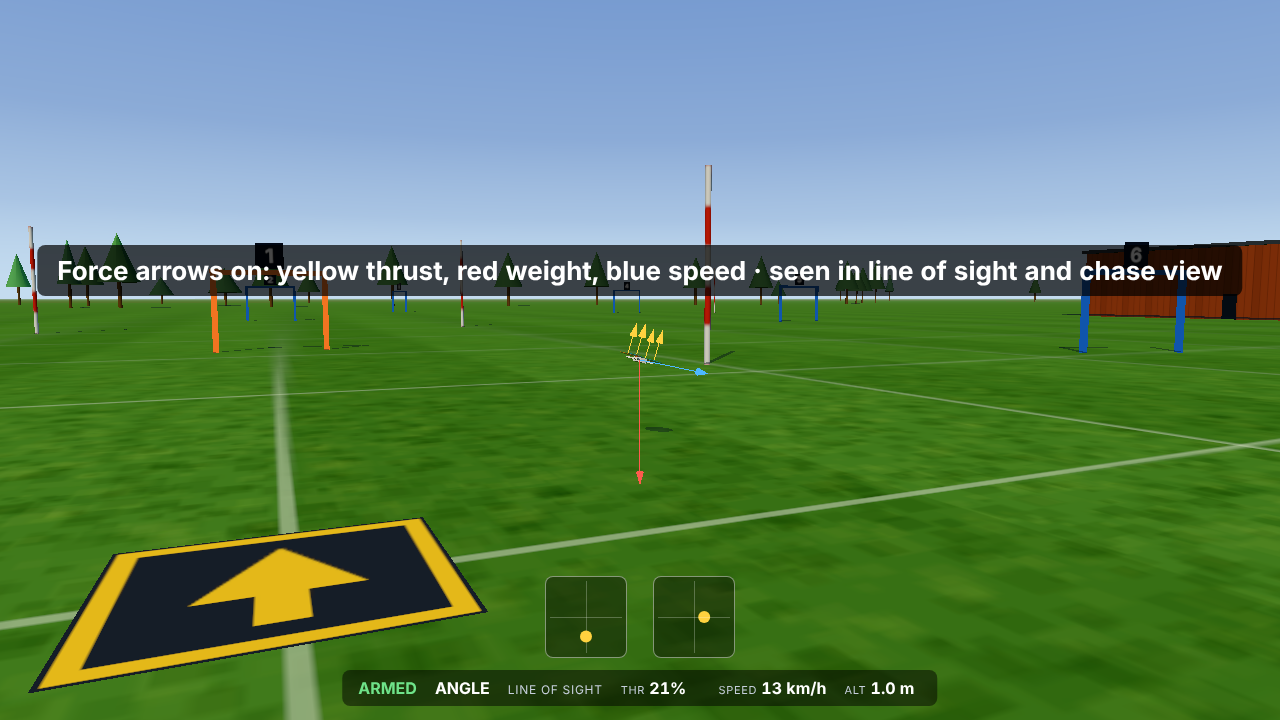
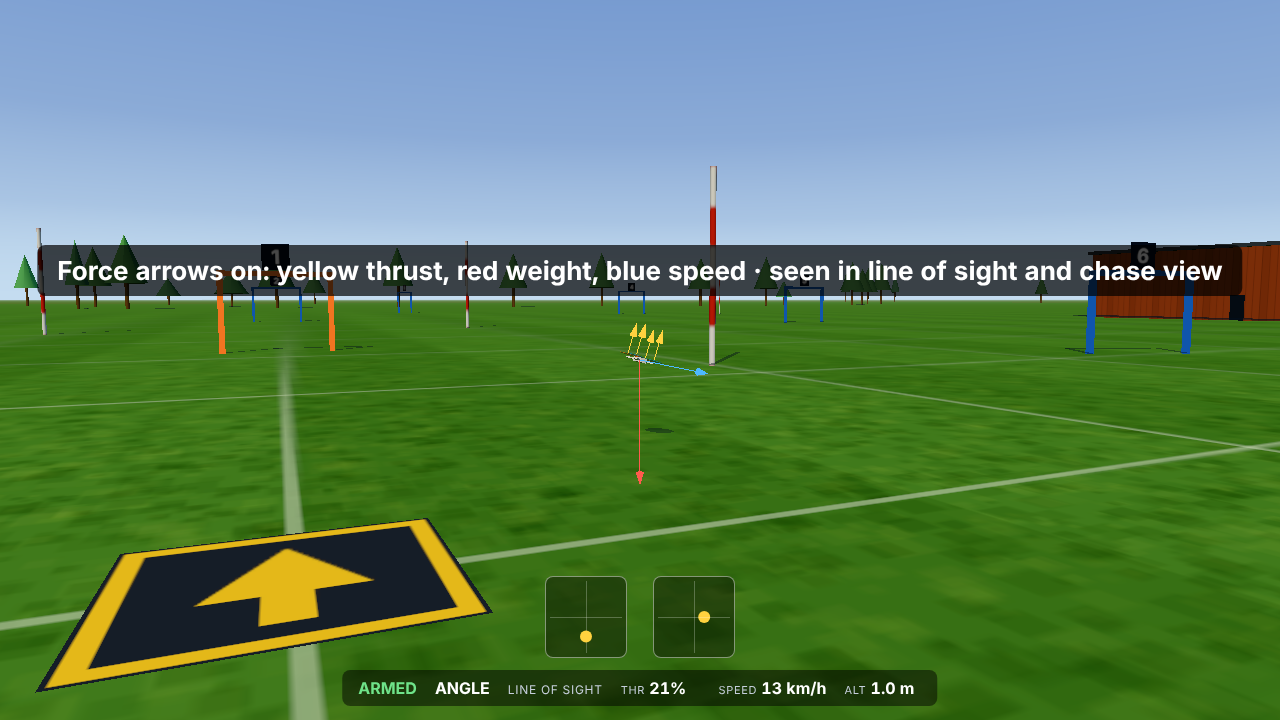
M10: coaching reads the last flying sample before a crash (found in Chrome: the stopped quad was read as 0 km/h); assumptions and notes for the next leg

diff --git a/src/coach.js b/src/coach.js
@@ -10,7 +10,7 @@ const PUSHED = 0.15;           // stick further out than this counts as "held" (
 
 export function createRecorder() { return { samples: [], last: -1, peak: null }; }
 const _up = [0, 0, 0];
-// sm: { t, pos, vel, quat, onGround }, sticks: { roll, pitch, yaw, throttle }, step: number of the lesson step being flown.
+// sm: { t, pos, vel, quat, onGround, crashed }, sticks: { roll, pitch, yaw, throttle }, step: number of the lesson step being flown.
 // force: take the sample whatever the time since the last one (the last frame of a run).
 export function record(rec, sm, sticks, step, force = false) {
   const speed = Math.hypot(sm.vel[0], sm.vel[1], sm.vel[2]);
@@ -28,7 +28,7 @@ export function record(rec, sm, sticks, step, force = false) {
   rec.last = sm.t;
   rotate(sm.quat, [0, 1, 0], _up);
   rec.samples.push({ t: sm.t, pos: [sm.pos[0], sm.pos[1], sm.pos[2]], vel: [sm.vel[0], sm.vel[1], sm.vel[2]], head: headingDeg(sm.quat),
-    tilt: Math.acos(Math.max(-1, Math.min(1, _up[1]))) * 180 / Math.PI, onGround: sm.onGround, step,
+    tilt: Math.acos(Math.max(-1, Math.min(1, _up[1]))) * 180 / Math.PI, onGround: sm.onGround, crashed: !!sm.crashed, step,
     roll: sticks.roll, pitch: sticks.pitch, yaw: sticks.yaw, throttle: sticks.throttle });
   while (rec.samples.length && sm.t - rec.samples[0].t > KEEP) rec.samples.shift();
   return rec;
@@ -80,7 +80,8 @@ export function coachLine(a, r, rec, ctx = {}) {
   const S = rec.samples, end = S[S.length - 1];
   if (!end) return r.reason;
   const view = ctx.view || 'fpv', hover = ctx.hover ?? 0.2;
-  const air = S.filter((p) => !p.onGround), lastAir = air[air.length - 1] || end;
+  const air = S.filter((p) => !p.onGround && !p.crashed), lastAir = air[air.length - 1] || end;
+  // (a crashed quad has stopped: its last flying sample is the one before the crash)
   const recent = (sec, from = end) => S.filter((p) => from.t - p.t <= sec && p.t <= from.t);
   const mean = (list, k) => (list.length ? list.reduce((n, p) => n + p[k], 0) / list.length : 0);
   const step = a.lesson.steps[Math.min(a.step, a.lesson.steps.length - 1)];

diff --git a/src/main.js b/src/main.js
@@ -118,7 +118,7 @@ function lessonFrame(dt) {
   LS.attemptUpdate(attempt, { t: s.time, pos: s.pos, vel: s.vel, quat: s.quat, armed: sim.armed, crashed: s.crashed, onGround: s.onGround, mode: sim.mode, view: view.mode });
   if (attempt.state === 'running' && card) card = null;
   // Coaching: keep the last seconds of the player's own run (position, speed, sticks), to say why it failed.
-  if (attempt.state !== 'ready' && !watching) record((attempt.rec ||= createRecorder()), { t: s.time, pos: s.pos, vel: s.vel, quat: s.quat, onGround: s.onGround }, sticks, attempt.step, attempt.state !== 'running');
+  if (attempt.state !== 'ready' && !watching) record((attempt.rec ||= createRecorder()), { t: s.time, pos: s.pos, vel: s.vel, quat: s.quat, onGround: s.onGround, crashed: s.crashed }, sticks, attempt.step, attempt.state !== 'running');
   if (attempt.action) {
     if (attempt.action.type === 'spin') { // a gust turns the quad to a heading the pilot did not choose
       const h = (-attempt.action.yawDeg * DEG) / 2, [x, y, z, w] = s.quat, sy = Math.sin(h), cy = Math.cos(h);

diff --git a/src/style.css b/src/style.css
@@ -123,3 +123,5 @@ button.lesson .next { color: #ffd23f; font-weight: 600; }
 #uptilt-row input { flex: 1; min-width: 80px; }
 #uptilt-row output { color: #ffd23f; font-variant-numeric: tabular-nums; font-size: 13px; }
 #btn-uptilt-auto[hidden] { display: none; }
+#menu section > #uptilt-row { flex-wrap: wrap; }
+#uptilt-row span { white-space: nowrap; }

diff --git a/PROGRESS.md b/PROGRESS.md
@@ -95,6 +95,12 @@ Live link: https://mickethegeek.github.io/fpv-sim/ (not checkable from the cloud
 - Weak spots a human should judge (nobody has looked at the demos except through screenshots): in the nose-toward-you demos the quad is small and seen edge-on, so which way the nose points is hard to read; the per-motor arrow differences during a tilt last a few hundredths of a second and are easy to miss even in slow motion; the stop-early card says stopping takes more room at speed but the demo shows one speed only.
 - The lap timer and gate count in the HUD now show only on the gate course.
 
+- Helpers (M10): force arrows are drawn in line-of-sight and chase view only. In FPV the camera sits on the quad, so there is nothing to draw them on; switching them on in FPV says so on screen. Key F, or the button in Settings; no controller button (the pause menu reaches Settings). Saved in the browser (`fpvsim.view.v1`).
+- Camera tilt: 12° in Learn (middle of the cited 10 to 15° for beginners), 25° in Gates and Free fly, until the player moves the new Camera tilt slider in Settings (0 to 50°); from then on their value is used everywhere. "Camera tilt back to default" undoes it. PLAN said "starts at a beginner value and the setting stays the player's": there was no tilt setting before, so one was added. Change `LEARN_UPTILT` in `src/main.js`.
+- Coaching is one line on the result card of a failed lesson run (the card stays 14 s instead of 8). "streak back to 0" moved from the card's text to its title. A good run shows its numbers as before. Coaching is not a toggle: PLAN lists it under the helpers that are toggles, but it only ever appears on a card that was already there. If Mike wants it switchable, add a button next to Force arrows.
+- Coaching thresholds (a stick counts as held beyond 15 % for 0.3 s, and so on) and the advice wording are judgements, marked UNSOURCED in `docs/theory.md`. The numbers in each line are measured from the run.
+- No coaching in Gates or Free fly (nothing "fails" there except a crash; PLAN asks for it after a failed Try).
+
 ## Notes for the next leg
 - Menus: `src/menu.js` (`navUpdate` pure and unit-tested; `Menu` class: screens are `<section data-screen>` in `index.html`, buttons with `data-go="screen|back"` or `data-act="..."`, `data-first` marks where the pointer starts; anything focusable on a screen is reachable with the D-pad, sliders and selects change with left / right). `main.js`: `menu`, `start(mode, id)`, `closeMenu`, `appMode` (`learn` / `gates` / `free`); the sim, lessons, crash timer and lap timer stand still while `menu.isOpen`. Test hook: `__sim.menu.open('pause')`, `.push('settings')`, `.close()`, `__sim.start('learn', 'wind')`, `snapshot().menu` and `.app`. In `test/flight.mjs`: `menuTo(...)`, `menuClose()`, `frames(n)`; `simWait` hangs while a menu is open (the sim is paused), use `frames`. Old blocks open the page with `&gates` (was `&free`), lesson blocks with `&learn`.
 - To add a menu screen (M9 Theory page, chapter parts): add a `<section data-screen="x" data-title="...">` and a button with `data-go="x"`.
@@ -130,6 +136,8 @@ Live link: https://mickethegeek.github.io/fpv-sim/ (not checkable from the cloud
 
 - Chapters (M9): `src/theory.js` (cards, questions), `src/demos.js` (one staged scene per card: start pose, sticks over time, camera, slow motion, arrows; `runDemo`), `src/arrows.js` (`forces()` pure, `buildArrows()`), `src/pilot.js` (the test pilots, moved from `test/autopilot.mjs`, which now re-exports them). `main.js`: `chapter` ({ lesson, ch, part, i }), `showChapter(id, part)`, `startPart(part, i)`, `playCard`, `placeDemo`, `cardStep(±1)`, `partDone(part, skipped)`, `demo`, `watching`, `seen` (storage `fpvsim.chapters.v1`). While `demo` or `watching` is set the sticks come from the demo / the test pilot, not the player. Test hook: `__sim.showChapter`, `.startPart`, `.cardStep`, `snapshot().chapter / .demo / .watching / .theory / .arrows / .curve / .seen`. `node test/flight.mjs x M9` runs the M9 block alone (about 3 minutes).
 - **For M10.** Force arrows: `arrows.update(state, quad, scale)` already draws thrust per motor, weight and velocity; today they only show in demos with a standing camera. M10 needs a Settings toggle (and a key) that shows them in chase and line-of-sight view during any flight (in FPV the quad is not on screen: decide and note it). Coaching: after a failed Try, one line from the flight data; `attempt` and `LS.attemptResult()` hold the reason and metrics, the recorder idea from the old `skills.js` is gone, so sample what is needed in `lessonFrame`. Beginner uptilt: 10 to 15 degrees is already sourced in `docs/theory.md` (camera row); apply it in Learn only, keep the player's setting.
+- Helpers (M10): `src/coach.js` (pure: `createRecorder`, `record` once per frame, `coachLine(attempt, result, recorder, ctx)`, `driftCause`; unit tests fly bad runs on the real physics in `test/unit/coach.test.mjs`). `main.js`: the recorder lives on the attempt (`attempt.rec`), filled in `lessonFrame`; `view.arrows`, `toggleArrows()`, `uptiltNow()`, `view.uptiltSet`, `saveView()`. Test hook: `snapshot().arrowsOn / .arrows / .uptilt / .uptiltSet / .toast`. `node test/flight.mjs x M10` runs the M10 block alone (about 5 minutes); a lesson run in the browser must start on the pad (`__sim.reset()` first, or the attempt waits for ever).
+- **For M11** (PLAN): check every chapter in Chrome (cards, demo, Watch, Try, Check, skip at each step, controller navigation), update README and REPORT.md (REPORT still describes phase 1 only: add M8 to M10, the new UNSOURCED rows, what Mike should try), then notify Mike (RELAY step 3), set Status DONE and switch both relay tasks off.
 - A snapshot value is not proof that something is on screen: the rates curve was "not hidden" in the snapshot and still invisible (the `hidden` property does nothing on an SVG element). Check with `page.isVisible` and look at the screenshot.
 
 ## Real flight data: what was found (scouting, 2026-11-16 11:10 UTC, nothing downloaded yet)
